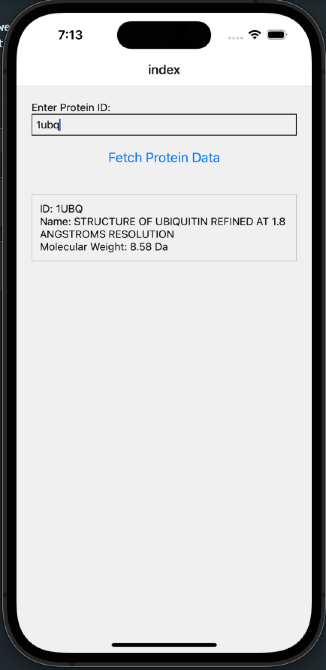
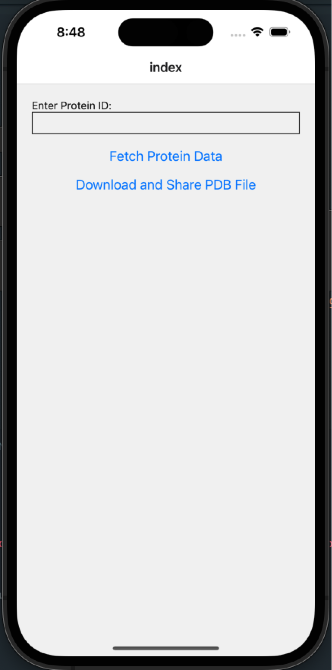
add screenshots

diff --git a/app/index.tsx b/app/index.tsx
@@ -1,9 +1,20 @@
 import React, { useState } from "react";
-import { View, Text, TextInput, Button, StyleSheet } from "react-native";
-import ThreeDViewer from "./components/ThreeDViewer";
+import {
+  View,
+  Text,
+  TextInput,
+  Button,
+  StyleSheet,
+  ScrollView,
+  Alert,
+} from "react-native";
 import ProteinVisualizer from "./components/ProteinVisualizer";
+import ThreeDViewer from "./components/ThreeDViewer";
 import getProteinData, { ProteinData } from "./services/proteinService";
-import { getProteinStructure } from "./services/structureService";
+import {
+  getProteinStructure,
+  downloadAndSharePDBFile,
+} from "./services/structureService";
 import axios from "axios";
 
 const App: React.FC = () => {
@@ -24,11 +35,9 @@ const App: React.FC = () => {
 
     try {
       const data = await getProteinData(proteinID);
-      console.log("Fetched protein data:", data);
       setProteinData(data);
 
       const structure = await getProteinStructure(proteinID);
-      console.log("Fetched structure data:", structure); // Log the structure data
       setStructureData(structure);
     } catch (err) {
       if (axios.isAxiosError(err)) {
@@ -44,7 +53,15 @@ const App: React.FC = () => {
       } else {
         setError("Unexpected error occurred.");
       }
-      console.error("Error:", err);
+    }
+  };
+
+  const handleDownloadAndSharePDBFile = async () => {
+    try {
+      await downloadAndSharePDBFile(proteinID);
+      Alert.alert("Success", "PDB file shared successfully.");
+    } catch (err) {
+      Alert.alert("Error", `Error sharing PDB file: ${err}`);
     }
   };
 
@@ -57,18 +74,35 @@ const App: React.FC = () => {
         onChangeText={setProteinID}
       />
       <Button title="Fetch Protein Data" onPress={fetchProteinData} />
+      <Button
+        title="Download and Share PDB File"
+        onPress={handleDownloadAndSharePDBFile}
+      />
       {error && <Text style={styles.error}>{error}</Text>}
-      {proteinData && (
-        <View style={styles.details}>
+      <ScrollView>
+        {proteinData && (
           <ProteinVisualizer
             id={proteinData.id}
             name={proteinData.name}
             molecularWeight={proteinData.molecularWeight}
             score={proteinData.score}
+            header={proteinData.header}
+            title={proteinData.title}
+            compound={proteinData.compound}
+            source={proteinData.source}
+            method={proteinData.method}
+            resolution={proteinData.resolution}
+            authors={proteinData.authors}
+            chains={proteinData.chains}
+            residueNumbering={proteinData.residueNumbering}
+            heteroatoms={proteinData.heteroatoms}
+            remark3={proteinData.remark3}
+            remark200={proteinData.remark200}
+            dbReference={proteinData.dbReference}
           />
-          {structureData && <ThreeDViewer structureData={structureData} />}
-        </View>
-      )}
+        )}
+        {structureData && <ThreeDViewer structureData={structureData} />}
+      </ScrollView>
     </View>
   );
 };

diff --git a/app/services/proteinService.ts b/app/services/proteinService.ts
@@ -6,6 +6,19 @@ interface ProteinData {
   molecularWeight: string;
   structure: string;
   score: string;
+  header: string;
+  title: string;
+  compound: string;
+  source: string;
+  method: string;
+  resolution: string;
+  authors: string;
+  chains: string;
+  residueNumbering: string;
+  heteroatoms: string;
+  remark3: string;
+  remark200: string;
+  dbReference: string;
 }
 
 const getProteinData = async (id: string): Promise<ProteinData> => {
@@ -17,29 +30,36 @@ const getProteinData = async (id: string): Promise<ProteinData> => {
       }
     );
     const data = response.data;
-    console.log("API response data:", JSON.stringify(data, null, 2)); // Log the full response data
-
-    const molecularWeight =
-      data.rcsb_entry_info?.polymer_molecular_weight_maximum ?? "N/A";
-    const structureData = "3D structure data"; // Placeholder, you may need to fetch the actual structure file separately
 
     const proteinData: ProteinData = {
       id: data.rcsb_id,
       name: data.struct.title,
-      molecularWeight: `${molecularWeight} Da`,
-      structure: structureData,
+      molecularWeight: `${
+        data.rcsb_entry_info?.polymer_molecular_weight_maximum ?? "N/A"
+      } Da`,
+      structure: "3D structure data", // Placeholder, you may need to fetch the actual structure file separately
       score: "N/A",
+      header: data.header ?? "N/A",
+      title: data.struct.title ?? "N/A",
+      compound: data.struct.compound ?? "N/A",
+      source: data.struct.source ?? "N/A",
+      method: data.exptl?.[0]?.method ?? "N/A",
+      resolution: `${data.rcsb_entry_info.resolution_combined?.[0] ?? "N/A"} Å`,
+      authors:
+        data.audit_author?.map((author: any) => author.name).join(", ") ??
+        "N/A",
+      chains: data.struct_ref?.[0]?.db_code ?? "N/A",
+      residueNumbering:
+        data.entity_poly?.[0]?.pdbx_seq_one_letter_code_can ?? "N/A",
+      heteroatoms: data.chem_comp?.[0]?.name ?? "N/A",
+      remark3: data.remark_3 ?? "N/A",
+      remark200: data.remark_200 ?? "N/A",
+      dbReference: data.struct_ref?.[0]?.db_name ?? "N/A",
     };
+
     return proteinData;
-  } catch (error: unknown) {
-    if (axios.isAxiosError(error)) {
-      console.error(
-        "Error fetching protein data:",
-        error.response?.data || error.message
-      );
-    } else {
-      console.error("Unexpected error:", error);
-    }
+  } catch (error) {
+    console.error("Error fetching protein data:", error);
     throw error;
   }
 };

diff --git a/app/components/ProteinVisualizer.tsx b/app/components/ProteinVisualizer.tsx
@@ -6,6 +6,19 @@ interface ProteinVisualizerProps {
   name: string;
   molecularWeight: string;
   score: string;
+  header: string;
+  title: string;
+  compound: string;
+  source: string;
+  method: string;
+  resolution: string;
+  authors: string;
+  chains: string;
+  residueNumbering: string;
+  heteroatoms: string;
+  remark3: string;
+  remark200: string;
+  dbReference: string;
 }
 
 const ProteinVisualizer: React.FC<ProteinVisualizerProps> = ({
@@ -13,13 +26,39 @@ const ProteinVisualizer: React.FC<ProteinVisualizerProps> = ({
   name,
   molecularWeight,
   score,
+  header,
+  title,
+  compound,
+  source,
+  method,
+  resolution,
+  authors,
+  chains,
+  residueNumbering,
+  heteroatoms,
+  remark3,
+  remark200,
+  dbReference,
 }) => {
   return (
     <View style={styles.container}>
       <Text>ID: {id}</Text>
       <Text>Name: {name}</Text>
-      <Text>Molecular Weight: {molecularWeight}</Text>
-      {/*<Text>Score: {score}</Text> */}
+      <Text>Molecular Weight (kDa): {molecularWeight}</Text>
+      {/* <Text>Score: {score}</Text> */}
+      {/* <Text>Header: {header}</Text> */}
+      <Text>Title: {title}</Text>
+      {/* <Text>Compound: {compound}</Text> */}
+      {/* <Text>Source: {source}</Text> */}
+      <Text>Method: {method}</Text>
+      <Text>Resolution: {resolution}</Text>
+      <Text>Authors: {authors}</Text>
+      {/* <Text>Chains: {chains}</Text>
+      <Text>Residue Numbering: {residueNumbering}</Text>
+      <Text>Heteroatoms: {heteroatoms}</Text>
+      <Text>Remark 3: {remark3}</Text>
+      <Text>Remark 200: {remark200}</Text>
+      <Text>DB Reference: {dbReference}</Text> */}
     </View>
   );
 };

diff --git a/app/services/structureService.ts b/app/services/structureService.ts
@@ -1,3 +1,5 @@
+import * as FileSystem from "expo-file-system";
+import * as Sharing from "expo-sharing";
 import axios from "axios";
 
 const getProteinStructure = async (id: string): Promise<string> => {
@@ -12,4 +14,25 @@ const getProteinStructure = async (id: string): Promise<string> => {
   }
 };
 
-export { getProteinStructure };
+const downloadAndSharePDBFile = async (id: string): Promise<void> => {
+  try {
+    const pdbData = await getProteinStructure(id);
+    const fileUri = `${FileSystem.documentDirectory}${id}.pdb`;
+    await FileSystem.writeAsStringAsync(fileUri, pdbData);
+
+    if (!(await Sharing.isAvailableAsync())) {
+      throw new Error("Sharing is not available on this device");
+    }
+
+    await Sharing.shareAsync(fileUri, {
+      mimeType: "text/plain",
+      dialogTitle: "Share PDB File",
+      UTI: "public.plain-text",
+    });
+  } catch (error) {
+    console.error("Error downloading and sharing PDB file:", error);
+    throw error;
+  }
+};
+
+export { getProteinStructure, downloadAndSharePDBFile };

diff --git a/README.md b/README.md
@@ -1,6 +1,6 @@
 # ProteinVisualizer
 
-ProteinVisualizer is a React Native application built with Expo that allows users to fetch and visualize protein structure data from the PDB database. The application provides detailed information about the protein, including its ID, molecular weight. Users can also download the PDB data locally.
+ProteinVisualizer is a React Native application built with Expo that allows users to fetch and visualize protein structure data from the PDB database. The application provides detailed information about the protein, including its ID, and molecular weight. Users can also download the PDB data locally or upload it to GoogleDrive.
 
 ## Features
 
@@ -10,16 +10,21 @@ ProteinVisualizer is a React Native application built with Expo that allows user
 
 ## Screenshots
 
-![alt text](image.png)
-
 ![alt text](image-1.png)
+![alt text](image-2.png)
+![alt text](image-3.png)
+![alt text](image-4.png)
+![alt text](image-5.png)
+![alt text](image-6.png)
+![alt text](image-7.png)
+![alt text](image-8.png)
 
 ## Installation
 
 1. Clone the repository:
 
    ```bash
-   git clone https://github.com/your-username/ProteinVisualizer.git
+   git clone https://github.com/cesco345/ProteinVisualizer.git
    cd ProteinVisualizer
    ```
 
